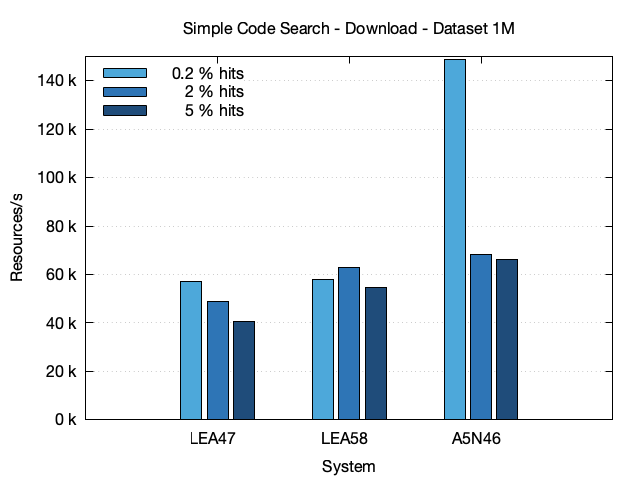
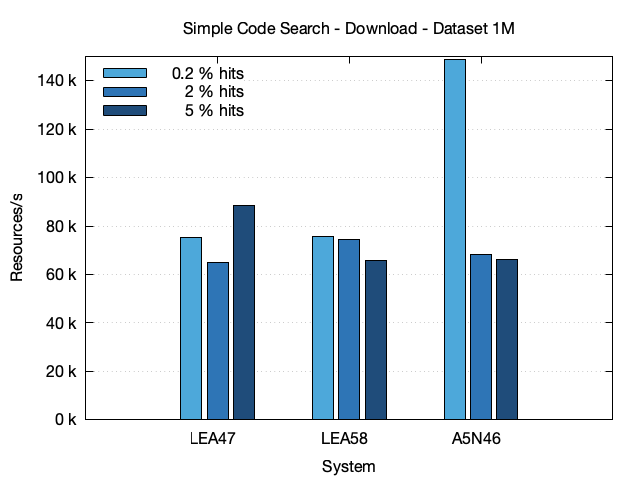
Add More FHIR Search Performance Data

Changed region(s): [[0.2812, 0.4062, 0.4062, 0.6875], [0.4688, 0.4688, 0.625, 0.625]]

diff --git a/docs/performance/fhir-search.md b/docs/performance/fhir-search.md
@@ -57,9 +57,9 @@ curl -s "http://localhost:8080/fhir/Observation?code=http://loinc.org|$CODE&_sum
 | LEA58  | 100k    | 8310-5  |  115 k |     0.07 |  0.002 |  1.64 M |
 | LEA58  | 100k    | 55758-7 |  1.0 M |     0.54 |  0.020 |  1.85 M |
 | LEA58  | 100k    | 72514-3 |  2.7 M |     1.43 |  0.045 |  1.89 M |
-| LEA47  | 1M      | 8310-5  |  1.1 M |     0.59 |  0.006 |  1.86 M |
-| LEA47  | 1M      | 55758-7 | 10.1 M |     5.45 |  0.182 |  1.85 M |
-| LEA47  | 1M      | 72514-3 | 27.3 M |    14.03 |  0.135 |  1.95 M |
+| LEA47  | 1M      | 8310-5  |  1.1 M |     0.34 |  0.003 |   3.4 M |
+| LEA47  | 1M      | 55758-7 | 10.1 M |     3.15 |  0.038 |   3.2 M |
+| LEA47  | 1M      | 72514-3 | 27.3 M |     8.32 |  0.075 |   3.3 M |
 | LEA58  | 1M      | 8310-5  |  1.1 M |     0.39 |  0.009 |   3.0 M |
 | LEA58  | 1M      | 55758-7 | 10.1 M |     2.84 |  0.026 |   3.6 M |
 | LEA58  | 1M      | 72514-3 | 27.3 M |     7.52 |  0.138 |   3.6 M |
@@ -81,26 +81,26 @@ Downloads were performed using the following `blazectl` command:
 blazectl download --server http://localhost:8080/fhir Observation -q "code=http://loinc.org|$CODE&_count=1000" > /dev/null
 ```
 
-| System | Dataset | Code    | # Hits | Time (s) | StdDev |   Res/s ¹ |
-|--------|---------|---------|-------:|---------:|-------:|----------:|
-| LEA36  | 100k    | 8310-5  |  115 k |     1.90 |  0.016 |   60.53 k |  
-| LEA36  | 100k    | 55758-7 |  1.0 M |    15.45 |  0.121 |   64.72 k |
-| LEA36  | 100k    | 72514-3 |  2.7 M |    41.09 |  0.530 |   65.71 k |
-| LEA47  | 100k    | 8310-5  |  115 k |     2.00 |  0.021 |   57.50 k |  
-| LEA47  | 100k    | 55758-7 |  1.0 M |    15.99 |  0.147 |   62.54 k |
-| LEA47  | 100k    | 72514-3 |  2.7 M |    43.48 |  0.128 |   62.10 k |
-| LEA58  | 100k    | 8310-5  |  115 k |     1.96 |  0.039 |   58.67 k |  
-| LEA58  | 100k    | 55758-7 |  1.0 M |    16.61 |  0.161 |   60.20 k |
-| LEA58  | 100k    | 72514-3 |  2.7 M |    43.84 |  0.124 |   61.59 k |         
-| LEA47  | 1M      | 8310-5  |  1.1 M |    19.20 |  0.102 |   57.29 k |         
-| LEA47  | 1M      | 55758-7 | 10.1 M |   206.52 |  1.478 | 48.91 k ² |         
-| LEA47  | 1M      | 72514-3 | 27.3 M |   673.10 |  3.072 | 40.56 k ² |
-| LEA58  | 1M      | 8310-5  |  1.1 M |    15.35 |  0.135 |    75.5 k |         
-| LEA58  | 1M      | 55758-7 | 10.1 M |   136.48 |  0.236 |    74.3 k |         
-| LEA58  | 1M      | 72514-3 | 27.3 M |   416.05 | 22.655 |  65.7 k ² |
-| A5N46  | 1M      | 8310-5  |  1.1 M |     7.78 |  0.040 |   148.9 k |         
-| A5N46  | 1M      | 55758-7 | 10.1 M |   148.39 |  1.776 |  68.3 k ² |        
-| A5N46  | 1M      | 72514-3 | 27.3 M |   413.87 |  0.165 |  66.1 k ² |
+| System | Dataset | Code    | # Hits | Time (s) | StdDev |  Res/s ¹ |
+|--------|---------|---------|-------:|---------:|-------:|---------:|
+| LEA36  | 100k    | 8310-5  |  115 k |     1.90 |  0.016 |  60.53 k |  
+| LEA36  | 100k    | 55758-7 |  1.0 M |    15.45 |  0.121 |  64.72 k |
+| LEA36  | 100k    | 72514-3 |  2.7 M |    41.09 |  0.530 |  65.71 k |
+| LEA47  | 100k    | 8310-5  |  115 k |     2.00 |  0.021 |  57.50 k |  
+| LEA47  | 100k    | 55758-7 |  1.0 M |    15.99 |  0.147 |  62.54 k |
+| LEA47  | 100k    | 72514-3 |  2.7 M |    43.48 |  0.128 |  62.10 k |
+| LEA58  | 100k    | 8310-5  |  115 k |     1.96 |  0.039 |  58.67 k |  
+| LEA58  | 100k    | 55758-7 |  1.0 M |    16.61 |  0.161 |  60.20 k |
+| LEA58  | 100k    | 72514-3 |  2.7 M |    43.84 |  0.124 |  61.59 k |         
+| LEA47  | 1M      | 8310-5  |  1.1 M |    15.43 |  0.034 |   75.1 k |         
+| LEA47  | 1M      | 55758-7 | 10.1 M |   155.78 |  0.976 | 65.1 k ² |         
+| LEA47  | 1M      | 72514-3 | 10.1 M |   114.41 |  0.438 | 88.6 k ² |
+| LEA58  | 1M      | 8310-5  |  1.1 M |    15.35 |  0.135 |   75.5 k |         
+| LEA58  | 1M      | 55758-7 | 10.1 M |   136.48 |  0.236 |   74.3 k |         
+| LEA58  | 1M      | 72514-3 | 27.3 M |   416.05 | 22.655 | 65.7 k ² |
+| A5N46  | 1M      | 8310-5  |  1.1 M |     7.78 |  0.040 |  148.9 k |         
+| A5N46  | 1M      | 55758-7 | 10.1 M |   148.39 |  1.776 | 68.3 k ² |        
+| A5N46  | 1M      | 72514-3 | 27.3 M |   413.87 |  0.165 | 66.1 k ² |
 
 ¹ resources per second, ² resource cache size is smaller than the number of resources returned
 
@@ -127,9 +127,9 @@ blazectl download --server http://localhost:8080/fhir Observation -q "code=http:
 | LEA58  | 100k    | 8310-5  |  115 k |     1.28 |  0.017 |   89.84 k |
 | LEA58  | 100k    | 55758-7 |  1.0 M |    10.55 |  0.209 |   94.79 k |
 | LEA58  | 100k    | 72514-3 |  2.7 M |    27.15 |  0.749 |   99.45 k |
-| LEA47  | 1M      | 8310-5  |  1.1 M |    13.14 |  0.540 |   83.71 k |          
-| LEA47  | 1M      | 55758-7 | 10.1 M |   145.59 |  0.618 | 69.37 k ² |          
-| LEA47  | 1M      | 72514-3 | 27.3 M |   437.43 |  3.461 | 62.41 k ² |
+| LEA47  | 1M      | 8310-5  |  1.1 M |    10.48 |  0.185 |   110.6 k |          
+| LEA47  | 1M      | 55758-7 | 10.1 M |   114.41 |  0.438 |  88.6 k ² |          
+| LEA47  | 1M      | 72514-3 | 27.3 M |   375.96 |  1.683 |  72.7 k ² |
 | LEA58  | 1M      | 8310-5  |  1.1 M |    10.61 |  0.120 |   109.2 k |          
 | LEA58  | 1M      | 55758-7 | 10.1 M |    88.05 |  1.587 |   115.2 k |          
 | LEA58  | 1M      | 72514-3 | 27.3 M |   259.91 |  2.506 | 105.2 k ² |

diff --git a/docs/api/interaction/search-type.md b/docs/api/interaction/search-type.md
@@ -56,7 +56,7 @@ Here the `Patient/` prefix in the reference ensures that the `id` is a patient I
 [base]/[type]?[token-param]=[system]|[code]&[reference-param]=Patient/[id]
 ```
 
-### Query Plan
+### Query Plan <Badge type="warning" text="Since 1.1"/>
 
 To understand how Blaze executes a search, you can request a query plan by setting the `__explain` search parameter to `true`. The server will then return an `OperationOutcome` as the first entry in the result bundle, with the query plan contained in its `diagnostics` field.
 
